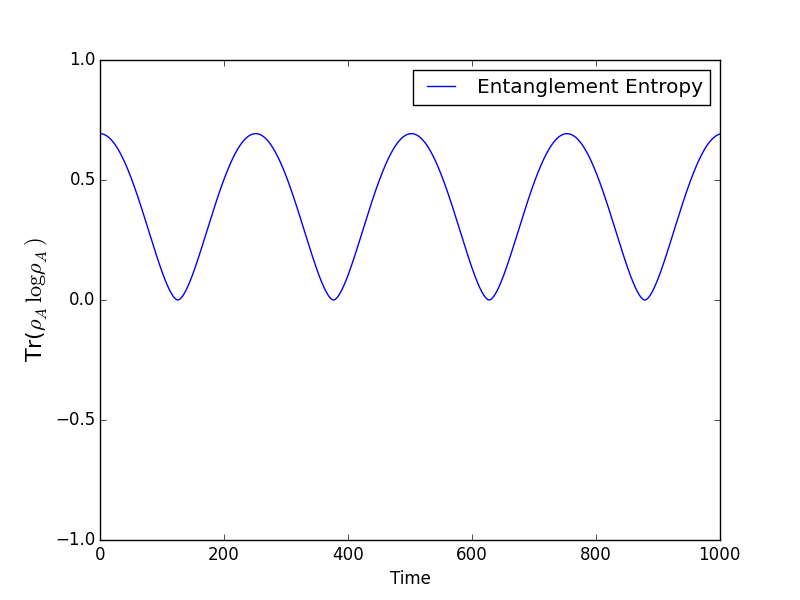
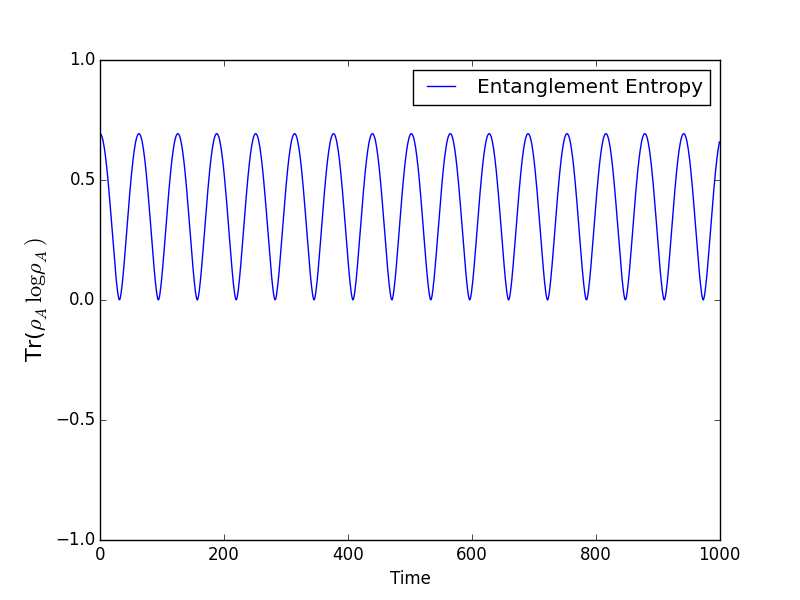
changes in 2e spins

diff --git a/2e.py b/2e.py
@@ -22,7 +22,7 @@ B = 0.00
 #g = coupling constant
 g = 1
 #exchange Hamiltonian
-H = g * 0.25 * (tensor(sigmaz(),sigmaz()) + 0.5*tensor(sigmap(),sigmam()) + 0.5*tensor(sigmam(),sigmap())) + B * tensor(sigmaz(),qeye(2)) 
+H = g * (tensor(sigmaz(),sigmaz()) + 0.5*tensor(sigmap(),sigmam()) + 0.5*tensor(sigmam(),sigmap())) + B * tensor(sigmaz(),qeye(2)) 
 print H
 print H.eigenstates()
 #N = number of simulation poitns
